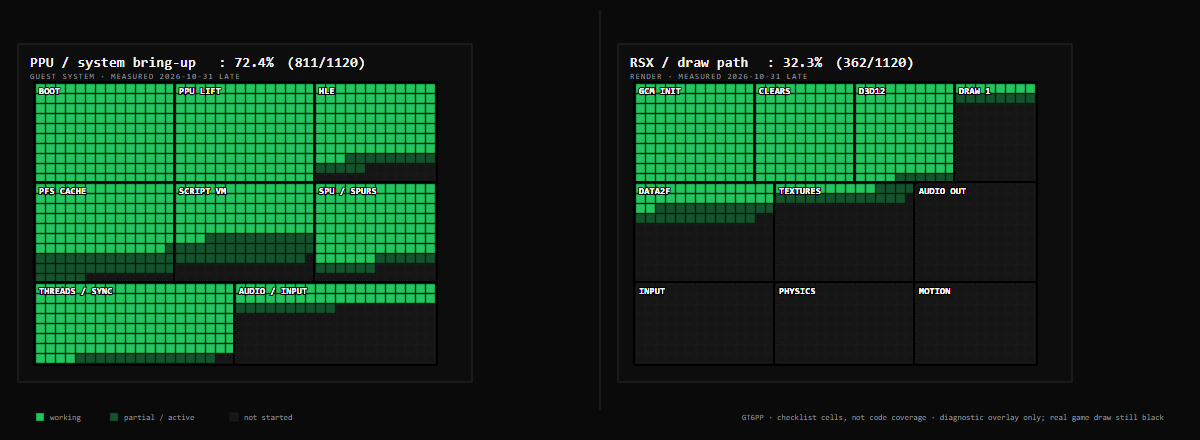
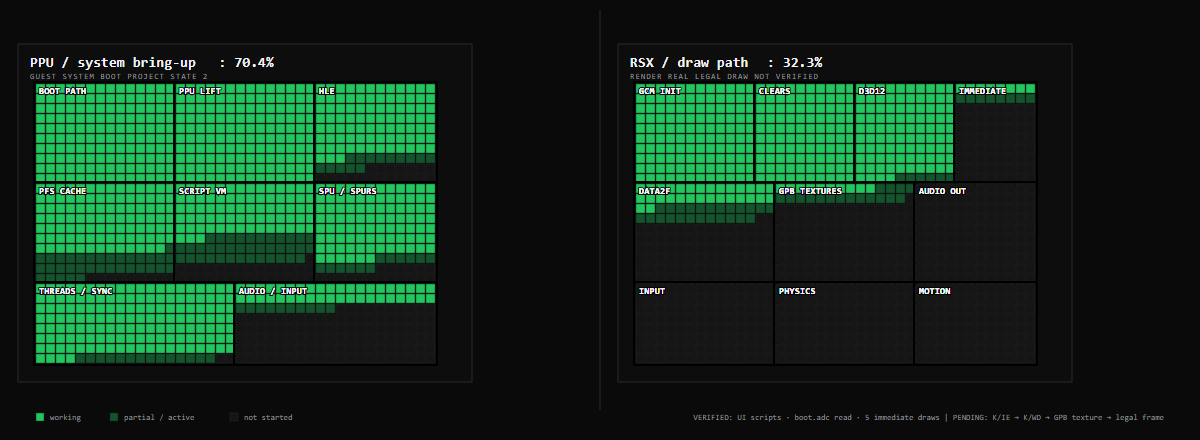
progress: add push-triggered SVG/PNG + site sync workflow; fix 70.4%

diff --git a/tools/sync_site_progress.py b/tools/sync_site_progress.py
@@ -1,0 +1,83 @@
+#!/usr/bin/env python3
+"""Sync the static fallback progress values in the website's index.html.
+
+The website fetches ``progress.json`` live at runtime.  This script only
+updates the numbers baked into the HTML so the page is still correct before
+the fetch completes (or if it fails).
+
+Usage:
+    python tools/sync_site_progress.py path/to/GT6PP-SITE/index.html
+"""
+from __future__ import annotations
+
+import html
+import json
+import re
+import sys
+from pathlib import Path
+
+ROOT = Path(__file__).resolve().parent.parent
+CONFIG = ROOT / "progress.json"
+
+
+def main() -> int:
+    if len(sys.argv) != 2:
+        print("usage: python tools/sync_site_progress.py <index.html>", file=sys.stderr)
+        return 2
+
+    target = Path(sys.argv[1])
+    if not target.exists():
+        print(f"not found: {target}", file=sys.stderr)
+        return 1
+
+    cfg = json.loads(CONFIG.read_text(encoding="utf-8"))
+    system = float(cfg["progress"]["system"])
+    render = float(cfg["progress"]["render"])
+    gate = str(cfg.get("current_gate", "")).strip()
+
+    text = target.read_text(encoding="utf-8")
+    original = text
+
+    text = re.sub(
+        r'(data-progress="system">)[\d.]+%',
+        rf"\g<1>{system:.1f}%",
+        text,
+    )
+    text = re.sub(
+        r'(data-bar="system" style="width:)[\d.]+%',
+        rf"\g<1>{system:.1f}%",
+        text,
+    )
+    text = re.sub(
+        r'(data-progress="render">)[\d.]+%',
+        rf"\g<1>{render:.1f}%",
+        text,
+    )
+    text = re.sub(
+        r'(data-bar="render" style="width:)[\d.]+%',
+        rf"\g<1>{render:.1f}%",
+        text,
+    )
+
+    if gate:
+        sentence = gate.rstrip()
+        if sentence and sentence[-1] not in ".!?":
+            sentence += "."
+        text = re.sub(
+            r'(<p\b[^>]*\bdata-gate\b[^>]*>).*?(</p>)',
+            lambda m: f"{m.group(1)}Current gate: {html.escape(sentence, quote=False)}{m.group(2)}",
+            text,
+            flags=re.DOTALL,
+        )
+
+    if text == original:
+        print(f"site already current: {target}")
+        return 0
+
+    target.write_text(text, encoding="utf-8", newline="")
+    print(f"updated site: {target}")
+    return 0
+
+
+if __name__ == "__main__":
+    raise SystemExit(main())

diff --git a/tools/make_progress_svg.py b/tools/make_progress_svg.py
@@ -84,7 +84,7 @@ def draw_panel(blocks: list[Block], ox: int, oy: int, title: str, side: str, pct
     out = []
     out.append(f'<rect x="{ox-18}" y="{oy-40}" width="{18*2 + COLS*PITCH + 18}" height="{ROWS*PITCH + 58}" fill="{PANEL}" stroke="{EDGE}"/>')
     pct_text = f": {pct:.1f}%"
-    count_text = f"({done}/{total})"
+    count_text = f"({done}/{total})" if pct_override is None else ""
     out.append(f'<text x="{ox-6}" y="{oy-17}" class="head">{title}</text>')
     out.append(f'<text x="{ox-6}" y="{oy-17}" class="head" dx="{len(title)*8.6 + 8:.1f}" fill="{GREEN}">{pct_text}</text>')
     out.append(f'<text x="{ox-6}" y="{oy-17}" class="head" dx="{len(title)*8.6 + 8 + len(pct_text)*8.6 + 8:.1f}" fill="{MUTED}">{count_text}</text>')

diff --git a/README.md b/README.md
@@ -95,6 +95,25 @@ See `ROADMAP.md` for the full plan and `CONTRIBUTORS.md` to join.
 
 ---
 
+## Progress source of truth
+
+All progress numbers, the version, and the current gate live in [`progress.json`](progress.json). Edit that one file, push, and CI does the rest:
+
+- validates the JSON
+- regenerates `docs/progress.svg` and `docs/progress.png`
+- syncs the static fallback numbers on the `GT6PP-SITE` website branch
+- the website also fetches the raw `progress.json` live
+
+Local regeneration:
+
+```powershell
+python tools/make_progress_svg.py
+python tools/sync_site_progress.py ..\GT6PP-SITE\index.html
+```
+
+The automation is [`.github/workflows/sync-progress.yml`](.github/workflows/sync-progress.yml).
+
+---
 
 ## Quick start
 
